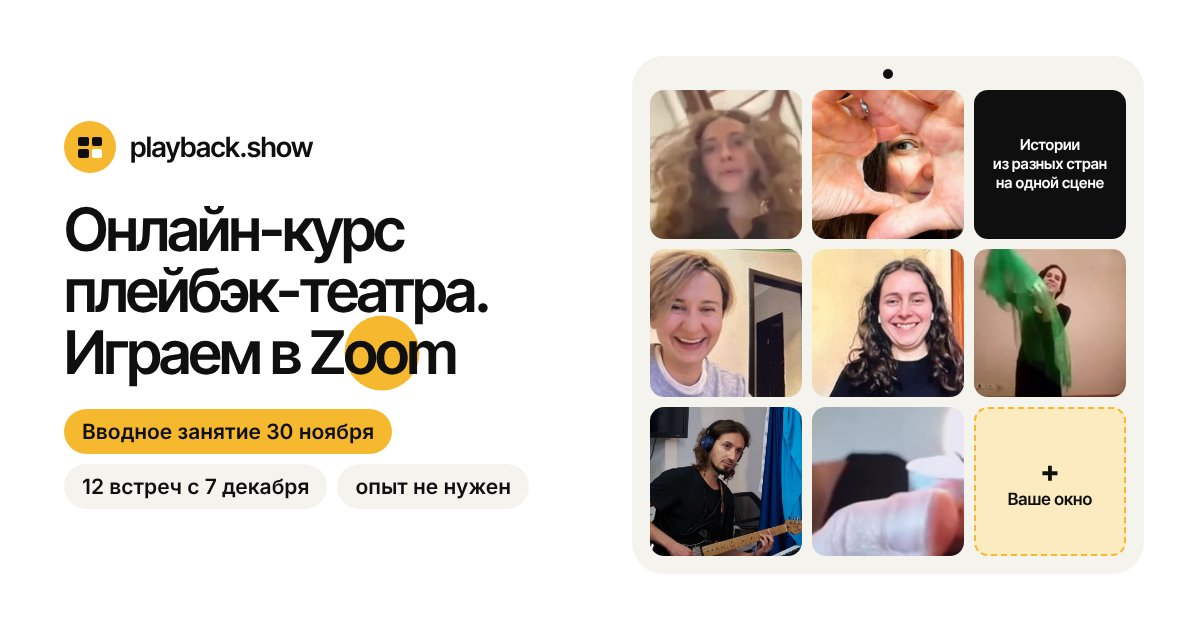
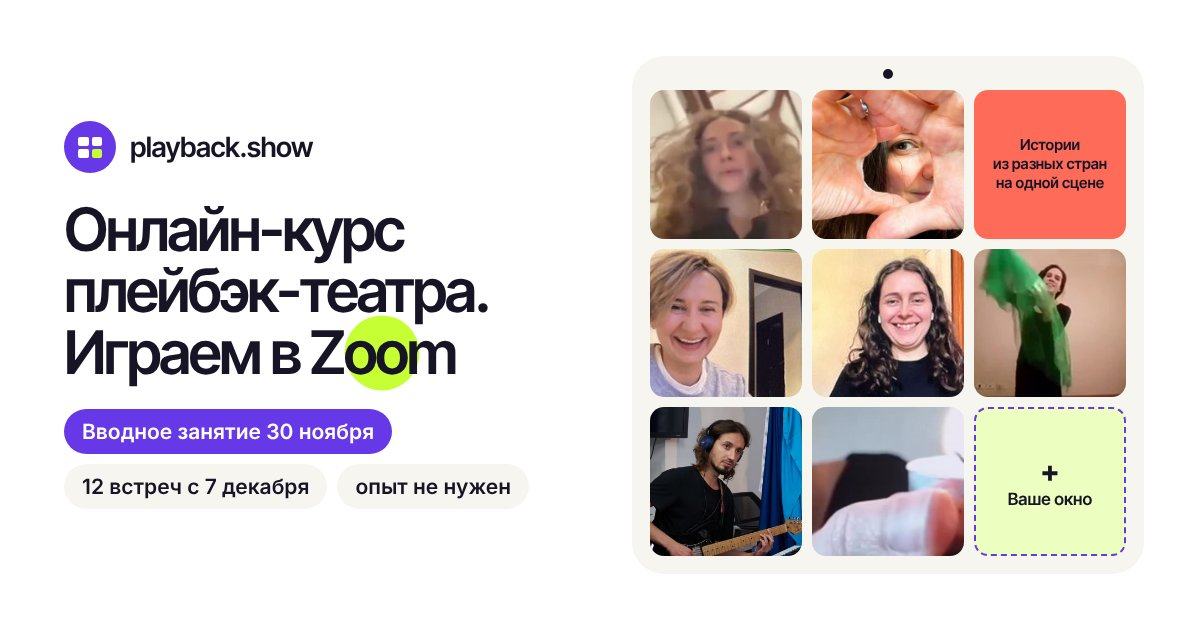
Эмблема, иконка и превью в цветах Electric Play вместо жёлтого
Claude-Session: https://claude.ai/code/session_01T97pseLVswSZSg5cABUsBG

diff --git a/index.html b/index.html
@@ -18,7 +18,7 @@
 <meta property="og:image:height" content="630">
 <meta property="og:image:alt" content="Онлайн-курс плейбэк-театра: девять окон Zoom с участниками">
 <meta name="twitter:card" content="summary_large_image">
-<meta name="theme-color" content="#F5B82E">
+<meta name="theme-color" content="#6638E8">
 <link rel="preconnect" href="https://fonts.googleapis.com">
 <link rel="stylesheet" href="https://fonts.googleapis.com/css2?family=Inter+Tight:wght@500;600;700&family=Inter:wght@400;500;600&display=swap">
 <style>
@@ -61,9 +61,9 @@ section{scroll-margin-top:90px}
 .season{flex:1 1 180px;white-space:nowrap;display:flex;gap:10px;align-items:center;font-size:13px;font-weight:600;letter-spacing:.14em;text-transform:uppercase}
 .season::before{content:"";width:8px;height:8px;border-radius:50%;background:var(--y)}
 .brand{flex:0 0 auto;display:flex;gap:12px;align-items:center;text-decoration:none}
-.mark{width:56px;height:56px;border-radius:50%;background:var(--y);display:flex;align-items:center;justify-content:center}
+.mark{width:56px;height:56px;border-radius:50%;background:#6638E8;display:flex;align-items:center;justify-content:center}
 .mark i{display:grid;grid-template-columns:repeat(2,minmax(0,1fr));gap:3px;width:26px}
-.mark b{height:10px;border-radius:2px;background:var(--ink)} .mark b:last-child{background:var(--white)}
+.mark b{height:10px;border-radius:2px;background:#FFFFFF} .mark b:last-child{background:#C7FF35}
 .brand{gap:14px}
 .brand span{font-family:var(--head);font-weight:600;font-size:26px;letter-spacing:-.03em}
 .nav{flex:0 0 auto;display:flex;flex-wrap:nowrap;gap:8px 22px;align-items:center;justify-content:flex-end;font-size:16px;font-weight:500}
